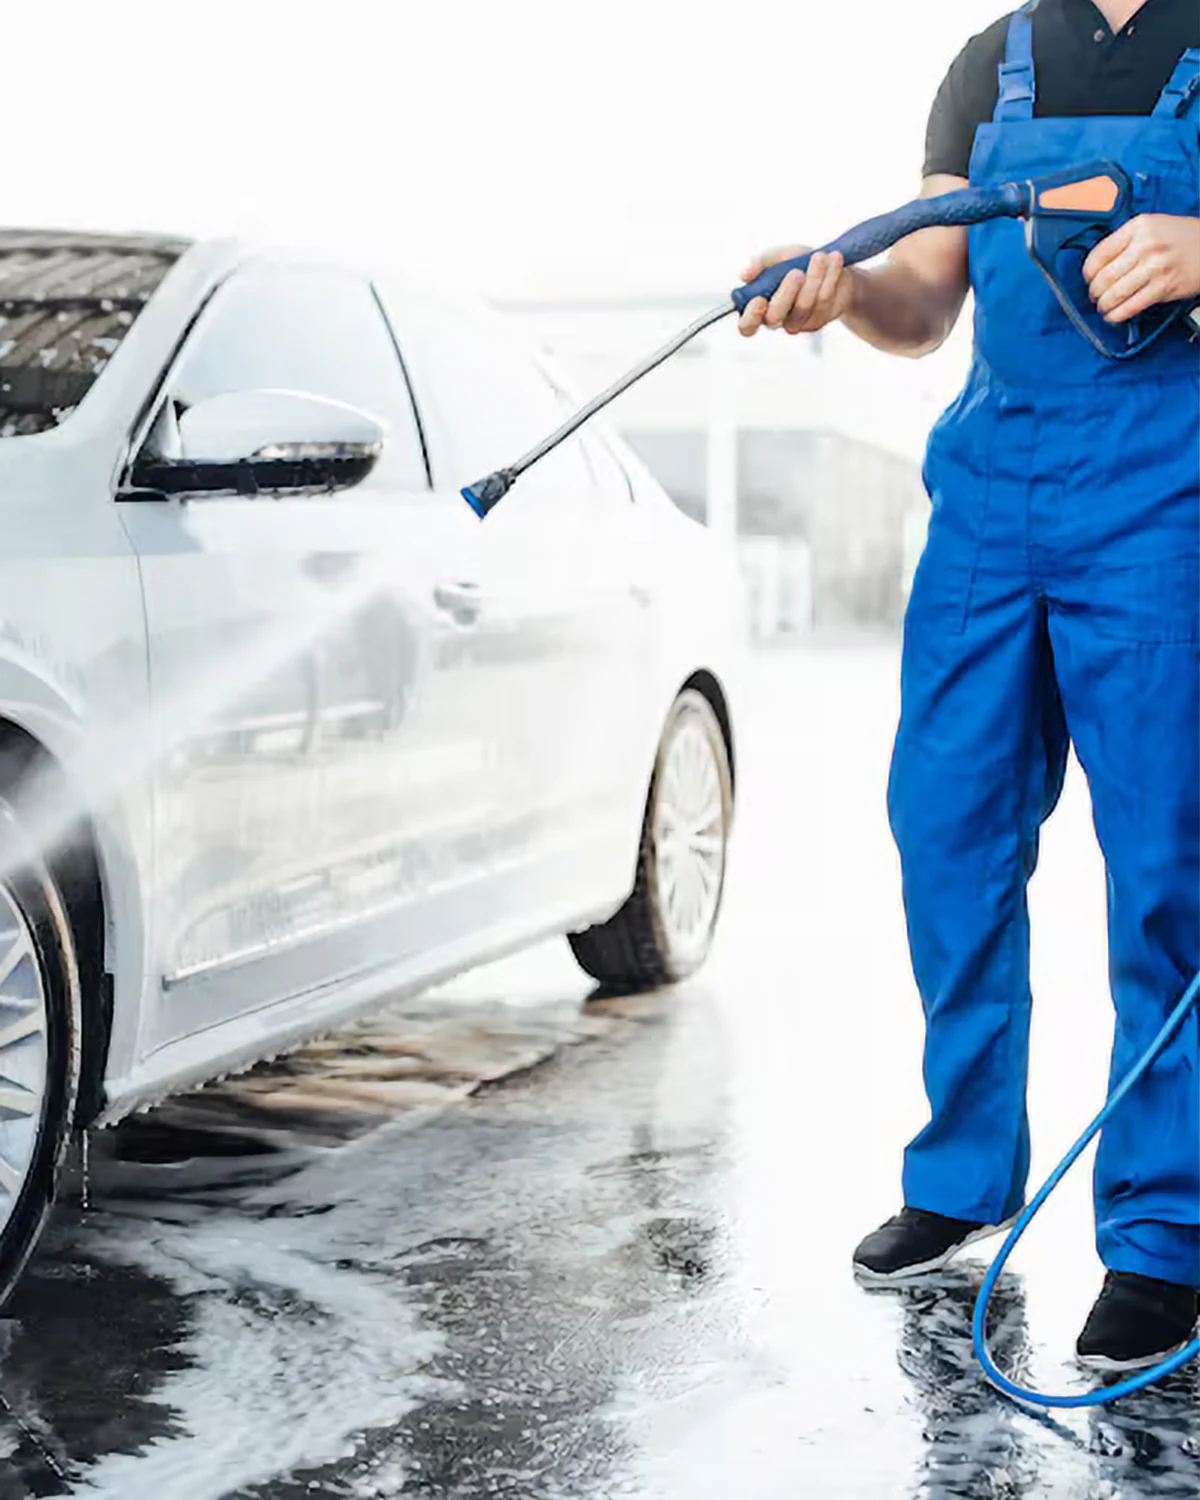
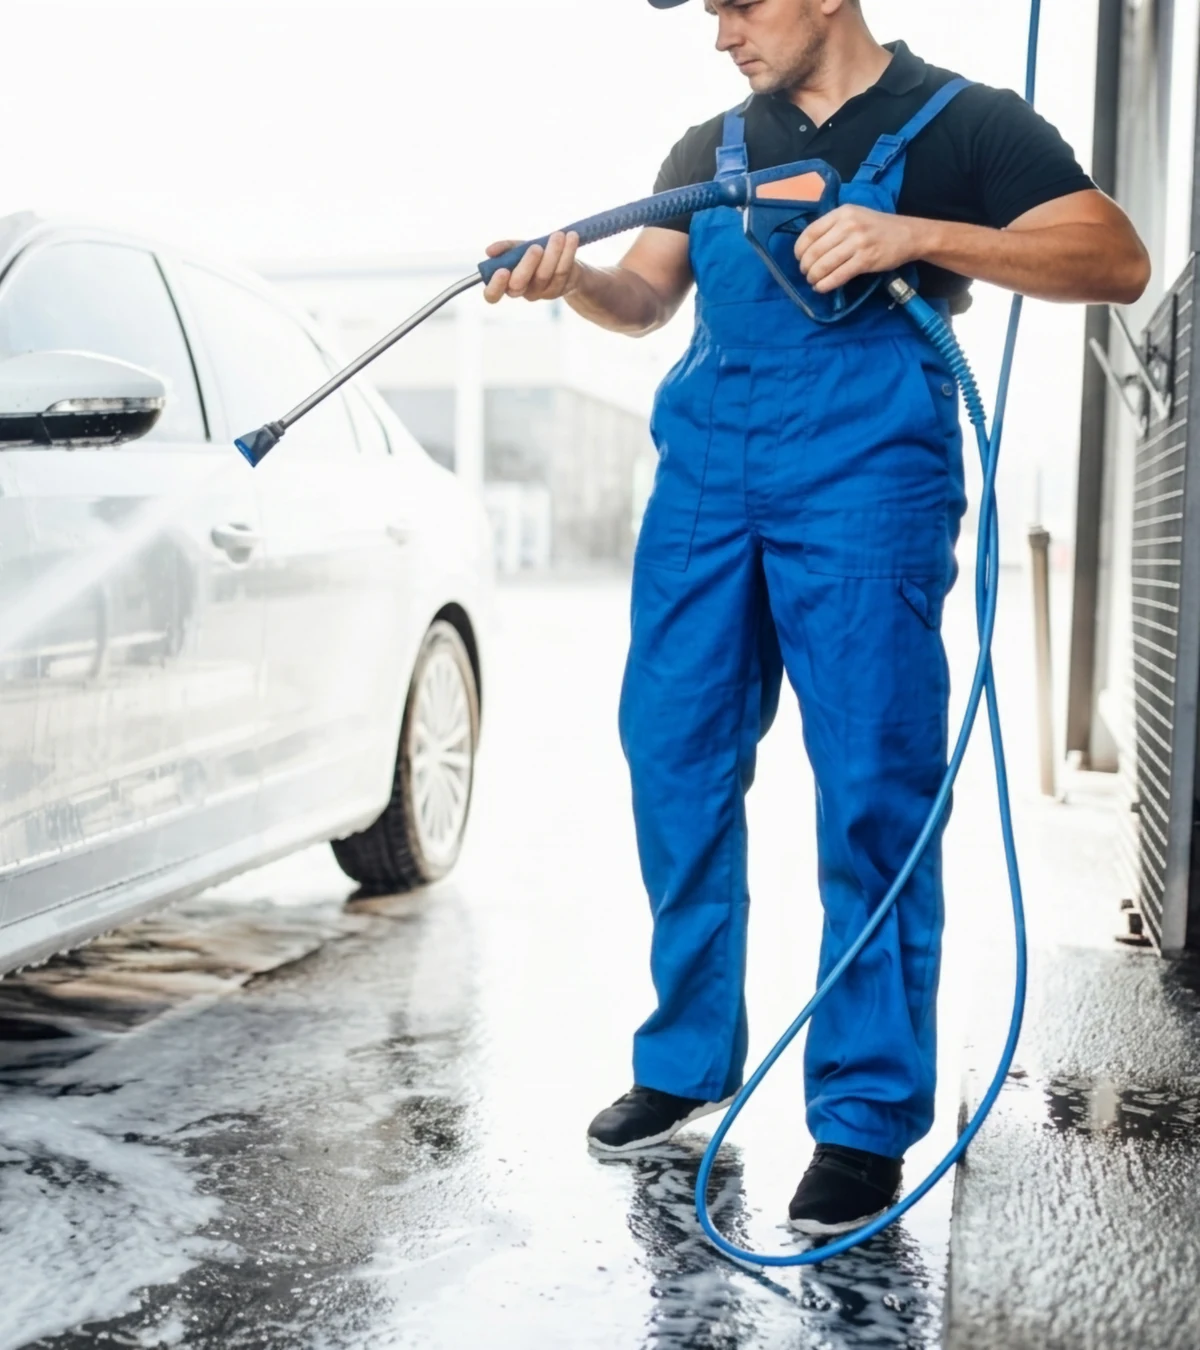
Cambia la foto de Lavado ejecutivo y corrige los enlaces a secciones
- Lavado ejecutivo: nueva foto "Detailing y Lavado 1", recortada y
  ampliada con IA. En escritorio empieza bajo el encabezado y en celular
  se ancla arriba para que no se corte la cara.
- Los enlaces a una sección (#llantas, #laminas, #detailing) a veces
  quedaban corridos; ahora la sección se vuelve a ubicar al terminar
  de cargar, salvo que la persona ya se haya movido.

diff --git a/assets/js/main.js b/assets/js/main.js
@@ -14,6 +14,22 @@
     CC.lenis = lenis;
   }
 
+  // Enlaces a una sección (#llantas, #detailing…): el salto del navegador ocurre antes de que termine la carga
+  // y puede quedar corrido, así que al cargar se vuelve a ubicar la sección, salvo que la persona ya se haya movido.
+  const hashTarget = location.hash && document.getElementById(decodeURIComponent(location.hash.slice(1)));
+  if (hashTarget) {
+    let moved = false;
+    const markMoved = () => { moved = true; };
+    ['wheel', 'touchstart', 'keydown', 'mousedown'].forEach((ev) => addEventListener(ev, markMoved, { once: true, passive: true }));
+    const goTo = () => {
+      if (moved) return;
+      if (CC.lenis) CC.lenis.scrollTo(hashTarget, { immediate: true, force: true });
+      else hashTarget.scrollIntoView();
+    };
+    if (document.readyState === 'complete') requestAnimationFrame(goTo);
+    else addEventListener('load', () => requestAnimationFrame(goTo), { once: true });
+  }
+
   const header = document.querySelector('.site-header');
   const setSolid = () => header.classList.toggle('is-solid', window.scrollY > 24);
   addEventListener('scroll', setSolid, { passive: true });

diff --git a/assets/css/main.css b/assets/css/main.css
@@ -407,6 +407,9 @@ body.tint-green { --tint: 112, 141, 129; }
 .wipes__step { position: absolute; inset: 0; }
 .wipes__step figure { position: absolute; left: 50%; right: 0; top: 0; bottom: 0; }
 .wipes__step img { width: 100%; height: 100%; object-fit: cover; }
+.wipes__step img.focus-top { object-position: 50% 0; }
+/* Fotos con la cabeza pegada al borde: empiezan bajo el encabezado sólido para que no tape la cara. */
+@media (min-width: 901px) { .wipes__step figure.below-header { top: var(--header-h); } }
 .wipes__text { position: absolute; left: var(--gutter); bottom: clamp(2rem, 7vh, 4.5rem); width: calc(50% - 2 * var(--gutter)); }
 .wipes__text h3 { font-size: clamp(1.75rem, min(4.2vw, 6.5svh), 4.75rem); color: var(--coral); }
 .wipes--flip .wipes__step figure { left: 0; right: 50%; }

diff --git a/servicios.html b/servicios.html
@@ -109,7 +109,7 @@
       </ul>
     </div>
     <article class="wipes__step">
-      <figure><img src="assets/img/step-ejecutivo.webp" width="1200" height="1500" loading="lazy" alt="Lavado a presión de un auto blanco"></figure>
+      <figure class="below-header"><img class="focus-top" src="assets/img/step-ejecutivo.webp" width="1200" height="1350" loading="lazy" alt="Lavado a presión de un auto blanco"></figure>
       <div class="wipes__text"><h3 class="display">Lavado ejecutivo</h3><p>Exterior del carro y aspirado.</p></div>
     </article>
     <article class="wipes__step">
